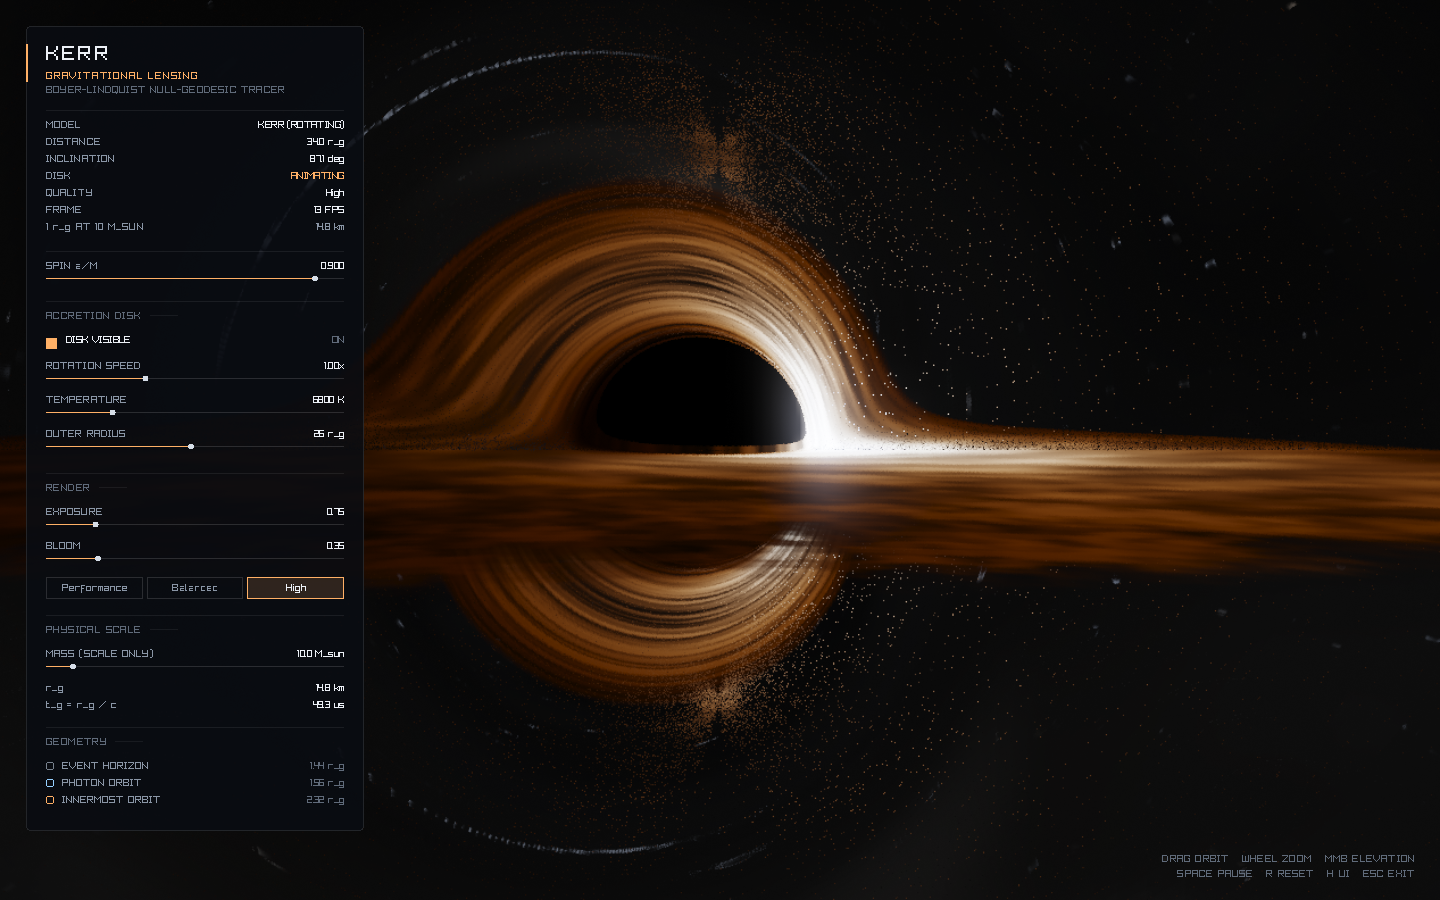
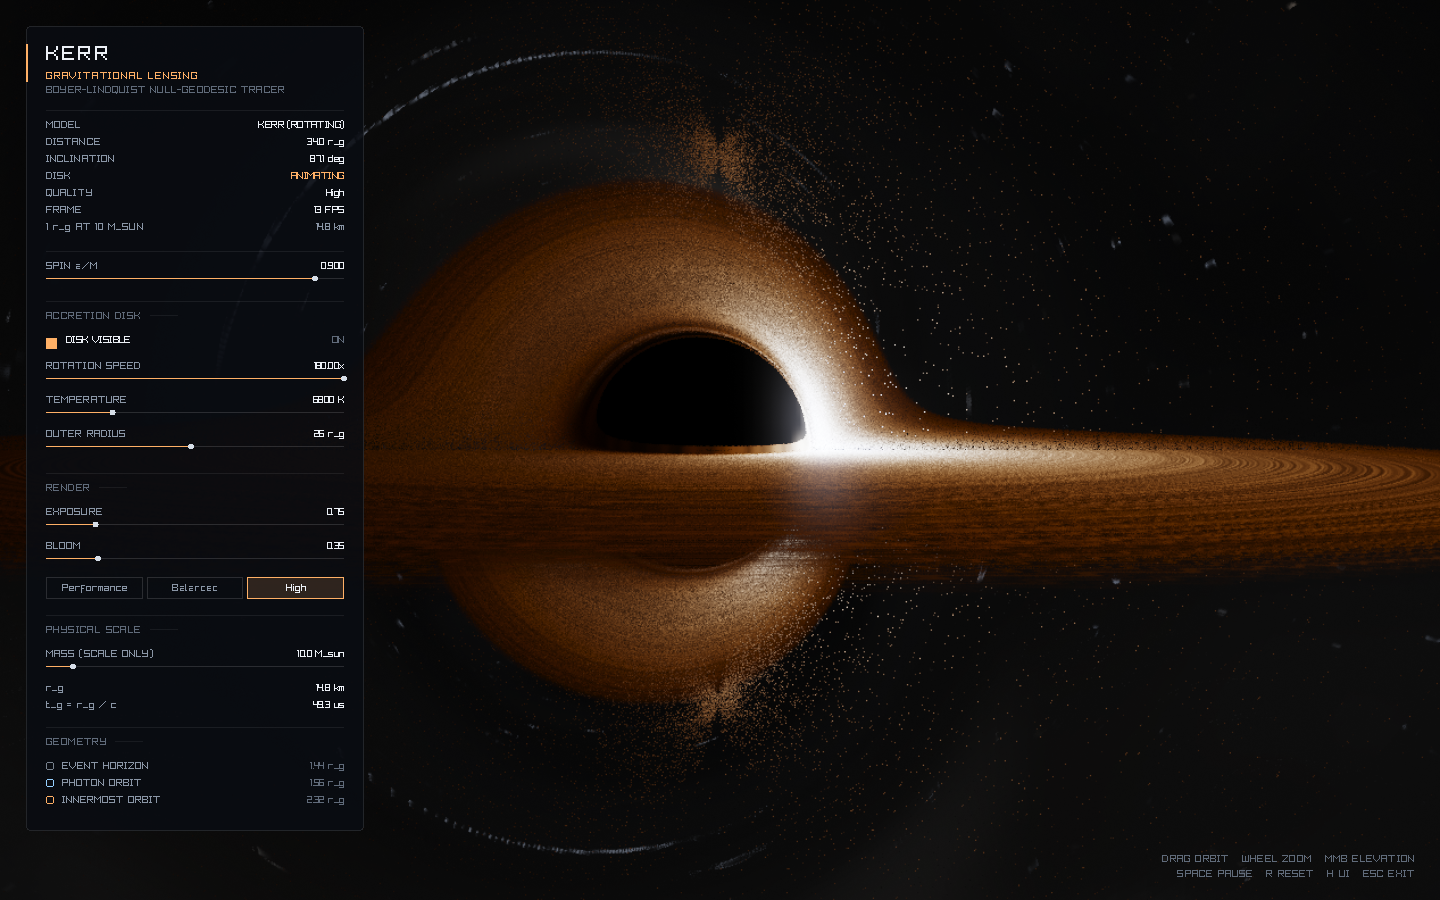
Set default disk rotation speed to 180 and refresh README screenshots

Changed region(s): [[0.3125, 0.2178, 1.0, 0.7778]]

diff --git a/src/main.cpp b/src/main.cpp
@@ -21,7 +21,7 @@ void printUsage() {
         "  --yaw RAD          camera azimuth in radians (default 0.70)\n"
         "  --pitch RAD        camera elevation in radians (default 0.16)\n"
         "  --spin A           dimensionless spin a/M, 0..0.998 (default 0.6)\n"
-        "  --rotation X       disk rotation speed multiplier (default 1.0)\n"
+        "  --rotation X       disk rotation speed multiplier (default 180)\n"
         "  --temperature K    disk temperature in kelvin (default 6800)\n"
         "  --time SECONDS     initial disk animation phase\n"
         "  --paused           start with the disk animation paused\n"

diff --git a/include/simulation_parameters.hpp b/include/simulation_parameters.hpp
@@ -28,7 +28,7 @@ const QualitySettings& qualitySettings(QualityPreset preset);
 struct SimulationParameters {
     bool diskVisible = true;
     float spin = 0.6f;            // dimensionless a/M, prograde disk
-    float rotationSpeed = 1.0f;   // multiples of the Keplerian rate
+    float rotationSpeed = 180.0f;   // multiples of the Keplerian rate
     float temperature = 6800.0f;  // Kelvin at the peak of the thin-disk profile
     float outerRadius = 26.0f;    // r_g
     float exposure = 0.75f;

diff --git a/src/simulation_parameters.cpp b/src/simulation_parameters.cpp
@@ -20,7 +20,7 @@ const QualitySettings& qualitySettings(QualityPreset preset) {
 
 void SimulationParameters::clamp() {
     spin = std::clamp(spin, 0.0f, kMaxSpin);
-    rotationSpeed = std::clamp(rotationSpeed, 0.0f, 3.0f);
+    rotationSpeed = std::clamp(rotationSpeed, 0.0f, 180.0f);
     temperature = std::clamp(temperature, 3000.0f, 20000.0f);
     // The disk cannot reach inside its own ISCO, which shrinks with spin.
     outerRadius = std::clamp(outerRadius, iscoRadius() * 1.25f, 45.0f);

diff --git a/src/ui.cpp b/src/ui.cpp
@@ -225,7 +225,7 @@ void Ui::draw(SimulationParameters& params, const UiReadout& readout) {
         y += 26.0f;
     }
 
-    slider("ROTATION SPEED", params.rotationSpeed, 0.0f, 3.0f, "%.2f", "x");
+    slider("ROTATION SPEED", params.rotationSpeed, 0.0f, 180.0f, "%.2f", "x");
     slider("TEMPERATURE", params.temperature, 3000.0f, 20000.0f, "%.0f", " K");
     slider("OUTER RADIUS", params.outerRadius, 8.0f, 45.0f, "%.0f", " r_g");
     y += 10.0f;
